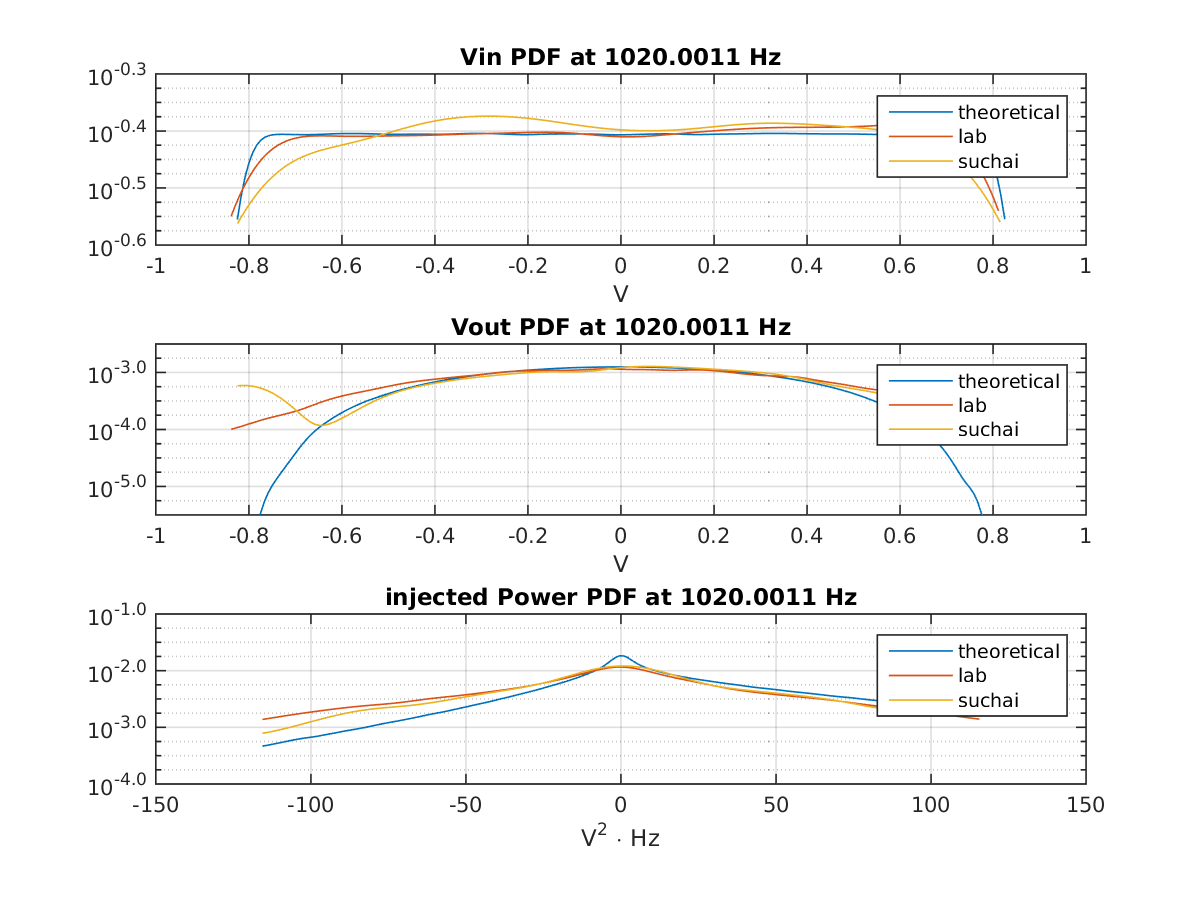
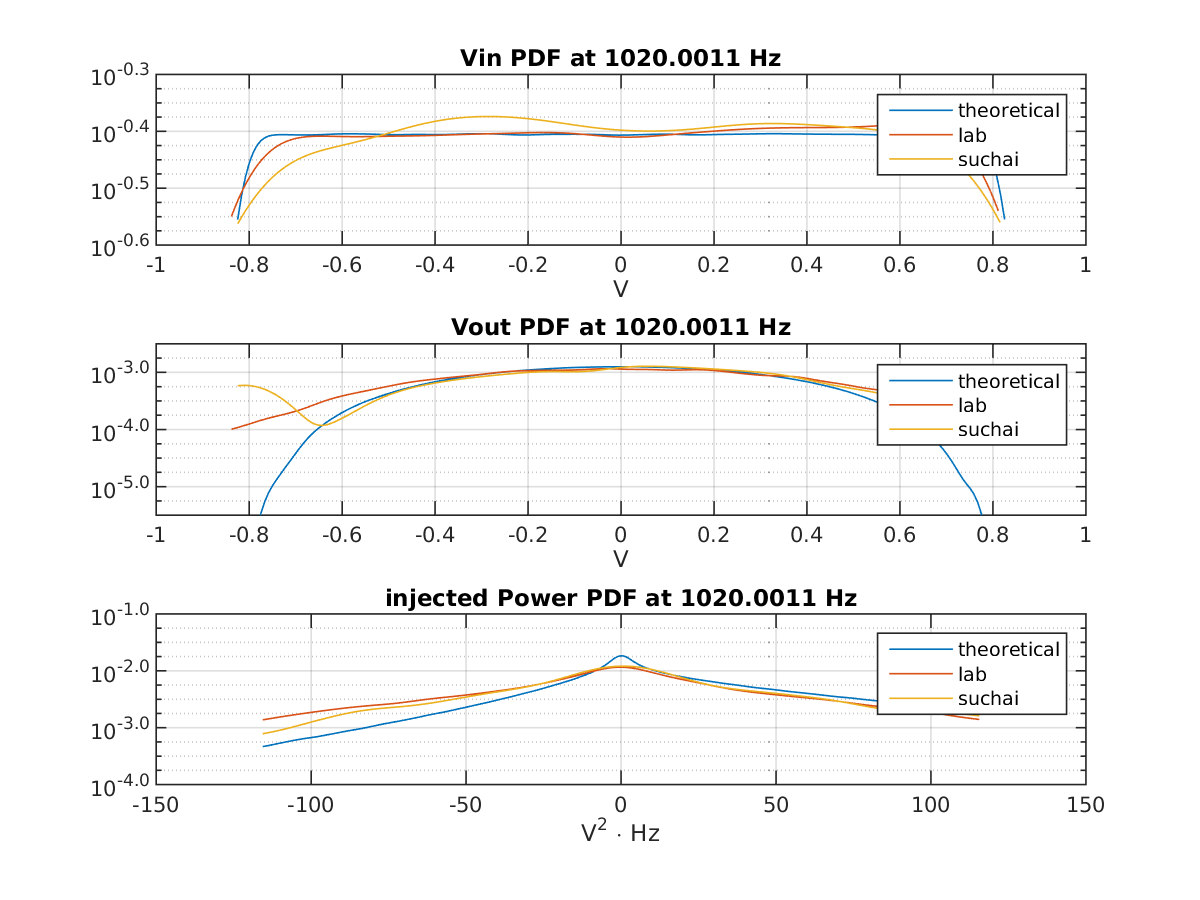
idem, change script to realtive (dot) path

diff --git a/suchai1/matlab/compare_telemetries.m b/suchai1/matlab/compare_telemetries.m
@@ -1,5 +1,5 @@
-S21 = load('/home/jose/Documents/UNIVERSIDAD/SUCHAI/Proyectos GitHub/RC-payload-SUCHAI/suchai1/matlab/mat/pdf/2017_08_24/2937.9922/pdfEstimator_2937.9922Hz.mat'); %carpeta de lab
-S61 = load('/home/jose/Documents/UNIVERSIDAD/SUCHAI/Proyectos GitHub/RC-payload-SUCHAI/suchai1/matlab/mat/pdf/2017_08_29/1020.0011/pdfEstimator_1020.0011Hz.mat'); %carpeta de lab
+S21 = load('./mat/pdf/2017_08_24/2937.9922/pdfEstimator_2937.9922Hz.mat'); %carpeta de lab
+S61 = load('./mat/pdf/2017_08_29/1020.0011/pdfEstimator_1020.0011Hz.mat'); %carpeta de lab
 prefix = '20170824-vs-20170829';
 
 %% Plots

diff --git a/suchai1/matlab/compare_pdfs_20170831.m b/suchai1/matlab/compare_pdfs_20170831.m
@@ -1,5 +1,5 @@
-Slab = load('/home/jose/Documents/UNIVERSIDAD/SUCHAI/Proyectos GitHub/RC-payload-SUCHAI/suchai1/matlab/mat/pdf/2016_18_05/15.5109/pdfEstimator_15.5109Hz.mat'); %carpeta de lab
-Ssuchai = load('/home/jose/Documents/UNIVERSIDAD/SUCHAI/Proyectos GitHub/RC-payload-SUCHAI/suchai1/matlab/mat/pdf/2017_08_31/15.5109/pdfEstimator_15.5109Hz.mat'); %carpeta de lab
+Slab = load('./mat/pdf/2016_18_05/15.5109/pdfEstimator_15.5109Hz.mat'); %carpeta de lab
+Ssuchai = load('./mat/pdf/2017_08_31/15.5109/pdfEstimator_15.5109Hz.mat'); %carpeta de lab
 prefix = '20170831semilogy';
 
 %% Plots

diff --git a/suchai1/matlab/compare_pdfs_20170829.m b/suchai1/matlab/compare_pdfs_20170829.m
@@ -1,5 +1,5 @@
-Slab = load('/home/jose/Documents/UNIVERSIDAD/SUCHAI/RC-payload-SUCHAI/suchai1/matlab/mat/pdf/2016_18_05/1020.0011/pdfEstimator_1020.0011Hz.mat'); %carpeta de lab
-Ssuchai = load('/home/jose/Documents/UNIVERSIDAD/SUCHAI/RC-payload-SUCHAI/suchai1/matlab/mat/pdf/2017_08_29/1020.0011/pdfEstimator_1020.0011Hz.mat'); %carpeta de lab
+Slab = load('./mat/pdf/2016_18_05/1020.0011/pdfEstimator_1020.0011Hz.mat'); %carpeta de lab
+Ssuchai = load('./mat/pdf/2017_08_29/1020.0011/pdfEstimator_1020.0011Hz.mat'); %carpeta de lab
 prefix = '20170829semilogy';
 
 %% Plots
